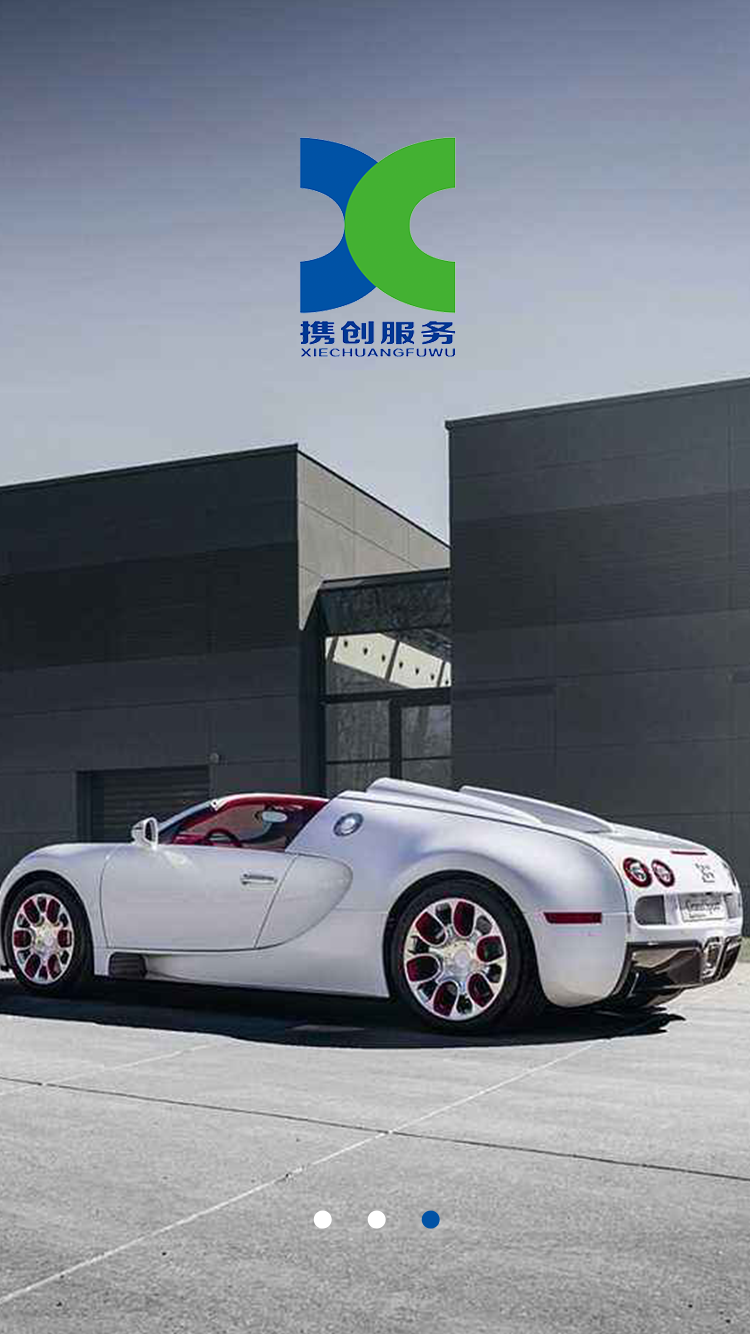
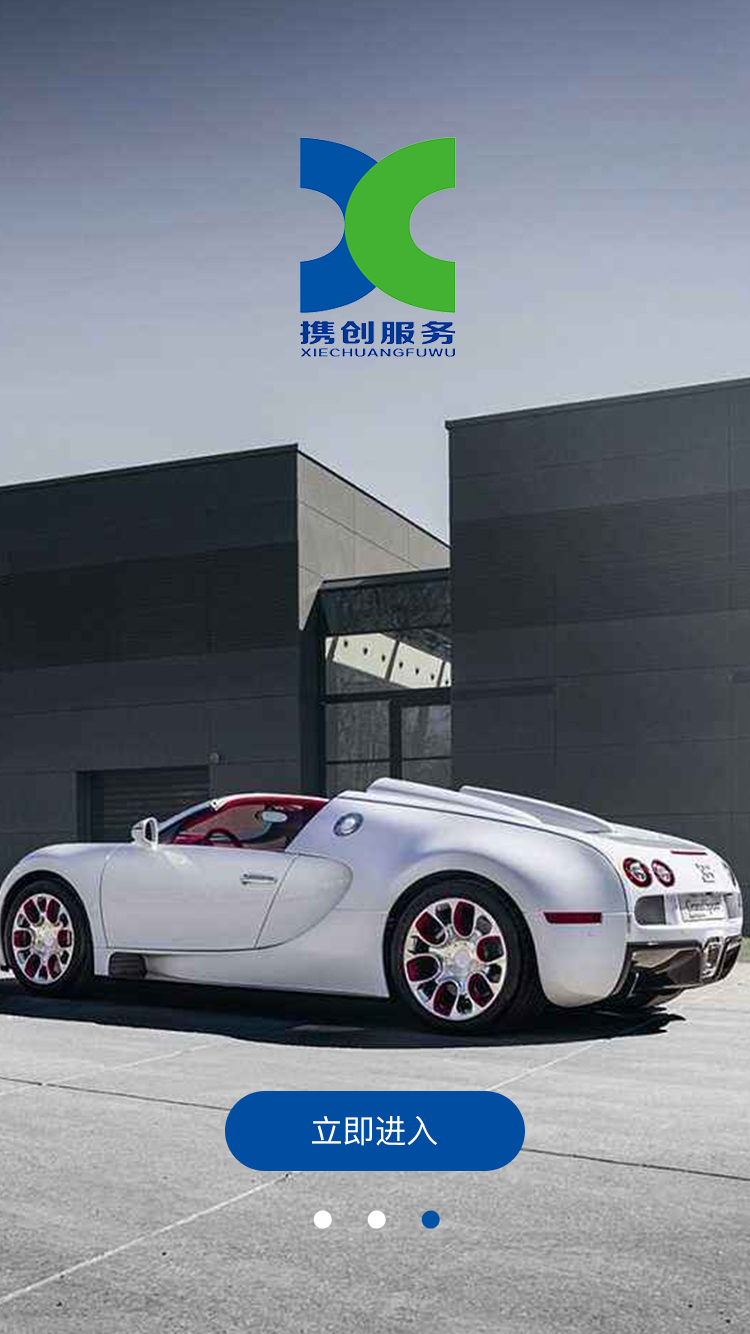
登录密码和修改密码 引导图

Changed region(s): [[0.276, 0.7991, 0.7053, 0.8913]]

diff --git a/testApp/testApp/LoginView/LoginViewController.m b/testApp/testApp/LoginView/LoginViewController.m
@@ -12,20 +12,28 @@
 #import "RequestAPI.h"
 #import "CoverLoopimageModel.h"
 #import "CoverAnnouncementModel.h"
+#import "YXTestNumber.h"
 
 @interface LoginViewController ()<UITextFieldDelegate,UserInfoComfirmVIewDelegate>
-
+{
+    BOOL isHold;
+}
 @property (nonatomic,strong) UITextField *accoutTextField;
 @property (nonatomic,strong) UITextField *passwordTextField;
-
 @end
 
 @implementation LoginViewController
 
 - (void)viewDidLoad {
     [super viewDidLoad];
+    isHold = YES;
     [self createUI];
     
+}
+
+- (void)viewDidAppear:(BOOL)animated{
+    [super viewDidAppear:animated];
+    isHold = YES;
 }
 
 - (void)createUI
@@ -48,7 +56,7 @@
     _accoutTextField.leftView=imageView1;
     _accoutTextField.leftViewMode = UITextFieldViewModeAlways;
     _accoutTextField.font = [UIFont systemFontOfSize:14];
-
+    [_accoutTextField addTarget:self action:@selector(textFieldDidChangePhoneNnumber:) forControlEvents:UIControlEventEditingChanged];
 
     self.passwordTextField = [[UITextField alloc] initWithFrame:CGRectMake(10, CGRectGetMaxY(_accoutTextField.frame), SCREEN_WIDTH-20, 44)];
     [self.view addSubview:_passwordTextField];
@@ -58,12 +66,14 @@
     _passwordTextField.textAlignment = NSTextAlignmentLeft;
     _passwordTextField.keyboardType = UIKeyboardTypeNumbersAndPunctuation;
     _passwordTextField.returnKeyType = UIReturnKeyDone;
+    _passwordTextField.secureTextEntry = YES; //密文
     _passwordTextField.delegate = self;
     UIImageView *imageView2 = [[UIImageView alloc] initWithImage:[UIImage imageNamed:@"login_password.png"]];
     _passwordTextField.leftView = imageView2;
     _passwordTextField.leftViewMode = UITextFieldViewModeAlways;
     _passwordTextField.font = [UIFont systemFontOfSize:14];
-
+    [_passwordTextField addTarget:self action:@selector(textFieldDidChangePhoneNnumber:) forControlEvents:UIControlEventEditingChanged];
+    
     UIButton *loginBtn = [[UIButton alloc] initWithFrame:CGRectMake((SCREEN_WIDTH - 345) / 2, CGRectGetMaxY(_passwordTextField.frame) + 50, 345, 44)];
     [self.view addSubview:loginBtn];
     [loginBtn setTitle:@"登录" forState:UIControlStateNormal];
@@ -92,8 +102,8 @@
 
 - (void)pressLoginBtn:(UIButton *)sender
 {
-    self.accoutTextField.text = @"13570229475";
-    self.passwordTextField.text = @"xc123456";
+//    self.accoutTextField.text = @"13570229475";
+//    self.passwordTextField.text = @"xc123456";
     if (!self.accoutTextField.text || !self.passwordTextField.text) {
         FinishTipsView *tipsView = [[FinishTipsView alloc] initWithTitle:@"请输入账号密码" complete:nil];
         [self.view addSubview:tipsView];
@@ -275,6 +285,7 @@
 
 - (void)pressForgetBtn:(UIButton *)sender
 {
+    isHold = NO;
     FindPasswordViewController *VC = [[FindPasswordViewController alloc] init];
      self.modalPresentationStyle=UIModalPresentationPopover;
     [self presentViewController:VC animated:YES completion:nil];
@@ -304,12 +315,50 @@
     [self.view endEditing:YES];
 }
 
+- (BOOL)textFieldShouldBeginEditing:(UITextField *)textField{
+    
+    return YES;
+}
+
+- (void)textFieldDidEndEditing:(UITextField *)textField{
+    if (isHold) {
+        if ([textField isEqual:self.accoutTextField]) {
+            NSString *str = [YXTestNumber testingMobile:textField.text];
+            if (str && str.length > 0) {
+                FinishTipsView *finishTV = [[FinishTipsView alloc] initWithTitle:str complete:^{
+                    self.accoutTextField.text = @"";
+                }];
+                [[UIApplication sharedApplication].keyWindow addSubview:finishTV];
+            }
+            
+        } else {
+            if (textField.text.length < 6 && textField.text.length > 0) {
+                FinishTipsView *finishTV = [[FinishTipsView alloc] initWithTitle:@"密码字数不能低于6位" complete:^{
+                    self.passwordTextField.text = @"";
+                }];
+                [[UIApplication sharedApplication].keyWindow addSubview:finishTV];
+            }
+        }
+    } else {
+        self.accoutTextField.text = @"";
+        self.passwordTextField.text = @"";
+    }
+    
+   
+}
+
+- (void)textFieldDidChangePhoneNnumber:(UITextField *)textField{
+    if ([textField isEqual:self.accoutTextField]) {
+        if (textField.text.length > 11) {
+            self.accoutTextField.text = [self.accoutTextField.text substringToIndex:11];
+        }
+    }
+}
+
 - (BOOL)textField:(UITextField *)textField shouldChangeCharactersInRange:(NSRange)range replacementString:(NSString *)string {
     NSCharacterSet *cs = [[NSCharacterSet characterSetWithCharactersInString:LETTERNUMKEYBOARD] invertedSet];
     NSString *filtered = [[string componentsSeparatedByCharactersInSet:cs] componentsJoinedByString:@""];
     return [string isEqualToString:filtered];
-
-
 }
 
 

diff --git a/testApp/testApp/UserView/Controller/修改密码/XCModifyPwdViewController.m b/testApp/testApp/UserView/Controller/修改密码/XCModifyPwdViewController.m
@@ -9,6 +9,9 @@
 #import "XCModifyPwdViewController.h"
 
 @interface XCModifyPwdViewController ()<BaseNavigationBarDelegate,UITextFieldDelegate>
+{
+    BOOL isPass;
+}
 @property (nonatomic,strong) NSMutableArray *textFieldArray;
 @end
 
@@ -23,6 +26,7 @@
     [self setupNav];
     self.view.backgroundColor = [UIColor whiteColor];
     [self createUI];
+    isPass = NO;
 }
 
 #pragma mark - Init Method
@@ -78,6 +82,9 @@
 
 - (void)pressConfirmBtn:(UIButton *)sender
 {
+    if (!isPass) {
+        return;
+    }
     UITextField *textFieldPassword = [self.textFieldArray objectAtIndex:0];
     UITextField *textFieldNewPassword = [self.textFieldArray objectAtIndex:1];
     for (UITextField *textField in self.textFieldArray) {
@@ -112,17 +119,50 @@
 }
 
 #pragma mark - textFieldDelegate
+
+- (BOOL)textFieldShouldBeginEditing:(UITextField *)textField{
+    
+    if (textField.tag == 2) {
+         UITextField *textFieldNewPassword = [self.textFieldArray objectAtIndex:1];
+        if (textFieldNewPassword.text.length == 0) {
+            FinishTipsView *tipsView = [[FinishTipsView alloc] initWithTitle:@"请输入新密码" complete:nil];
+            textField.text = @"";
+            [[UIApplication sharedApplication].keyWindow addSubview:tipsView];
+        }
+    }
+    return YES;
+}
+
+
 - (void)textFieldDidEndEditing:(UITextField *)textField{
     [textField endEditing:YES];
     
     if (textField.tag == 2) {
         UITextField *textFieldNewPassword = [self.textFieldArray objectAtIndex:1];
         if (![textField.text isEqualToString:textFieldNewPassword.text]) {
+            isPass = YES;
             FinishTipsView *tipsView = [[FinishTipsView alloc] initWithTitle:@"确认密码错误" complete:nil];
+            textField.text = @"";
+            [[UIApplication sharedApplication].keyWindow addSubview:tipsView];
+        } else {
+            isPass = YES;
+        }
+    }
+    
+    if (textField.tag == 1) {
+        if (textField.text.length < 6 && textField.text.length > 0) {
+            FinishTipsView *tipsView = [[FinishTipsView alloc] initWithTitle:@"密码字数不少于6位" complete:nil];
+            textField.text = @"";
+            [[UIApplication sharedApplication].keyWindow addSubview:tipsView];
+        }
+        
+        if (![YXTestNumber testingPassword:textField.text count:6] && textField.text.length > 0) {
+            FinishTipsView *tipsView = [[FinishTipsView alloc] initWithTitle:@"密码必须英文和数字结合" complete:nil];
             textField.text = @"";
             [[UIApplication sharedApplication].keyWindow addSubview:tipsView];
         }
     }
+    
     
     
 }

diff --git a/testApp/testApp/Tool/YXTestNumber.m b/testApp/testApp/Tool/YXTestNumber.m
@@ -34,6 +34,11 @@
     return [testNumber isEqual:emailID];
 }
 
++ (BOOL)testingPassword:(NSString *)password count:(NSInteger)count{
+    YXTestNumber *testNumber = [[YXTestNumber alloc] init];
+    return [testNumber judgePassWordLegal:password count:count];
+}
+
 - (NSString *)valiMobile:(NSString *)mobile{
     if (mobile.length == 0) {
         return @"手机号码不能为空";
@@ -202,6 +207,22 @@
     NSString *emailRegex = @"[A-Z0-9a-z._%+-]+@[A-Za-z0-9.-]+\\.[A-Za-z]{2,4}";
     NSPredicate *emailTest = [NSPredicate predicateWithFormat:@"SELF MATCHES %@", emailRegex];
     return [emailTest evaluateWithObject:email];
+}
+
+/*
+ *  判断用户输入的密码是否符合规范，符合规范的密码要求：
+ 1. 长度大于8位
+ 2. 密码中必须同时包含数字和字母
+ */
+- (BOOL)judgePassWordLegal:(NSString *)pass count:(NSInteger )count{
+    BOOL result = false;
+    if ([pass length] >= count){
+        // 判断长度大于8位后再接着判断是否同时包含数字和字符
+        NSString * regex = @"^(?![0-9]+$)(?![a-zA-Z]+$)[0-9A-Za-z]{8,16}$";
+        NSPredicate *pred = [NSPredicate predicateWithFormat:@"SELF MATCHES %@", regex];
+        result = [pred evaluateWithObject:pass];
+    }
+    return result;
 }
 
 

diff --git a/testApp/testApp/AppDelegate.m b/testApp/testApp/AppDelegate.m
@@ -52,10 +52,11 @@
             
             if (i==2) {
                 
-                UIButton *btn = [[UIButton alloc] initWithFrame:CGRectMake(self.myScrollView.frame.size.width*2, self.myScrollView.frame.size.height-75, SCREEN_WIDTH ,150)];
-                
+                UIButton *btn = [[UIButton alloc] initWithFrame:CGRectMake(113 * ViewRateBaseOnIP6 * 2, 546 *  ViewRateBaseOnIP6 * 2, 150 * ViewRateBaseOnIP6 * 2 ,50 * ViewRateBaseOnIP6 * 2)];
+                btn.layer.cornerRadius = 40 * ViewRateBaseOnIP6;
+                btn.layer.masksToBounds = YES;
                 [btn addTarget:self action:@selector(closeView) forControlEvents:UIControlEventTouchUpInside];
-                [self.myScrollView addSubview:btn];
+                [imageView addSubview:btn];
             }
         }
     } else {

diff --git a/testApp/testApp/Tool/YXTestNumber.h b/testApp/testApp/Tool/YXTestNumber.h
@@ -51,5 +51,13 @@
 + (BOOL)testingEmail:(NSString *)emailID;
 
 
+/**
+ 密码格式 是否是有英文和 数字结合的
+
+ @param password 密码
+ @param count 最大长度
+ @return BOOL
+ */
++ (BOOL)testingPassword:(NSString *)password count:(NSInteger )count;
 
 @end
